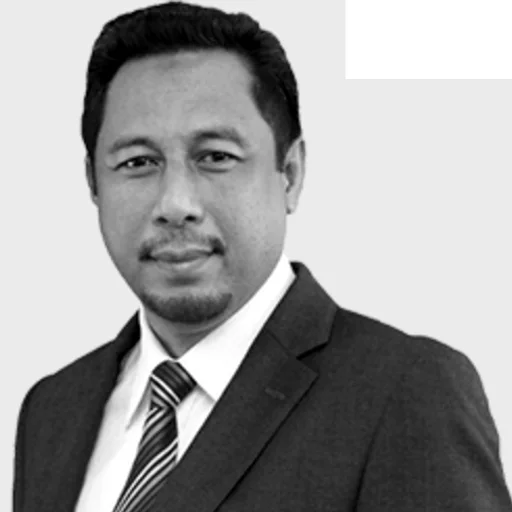
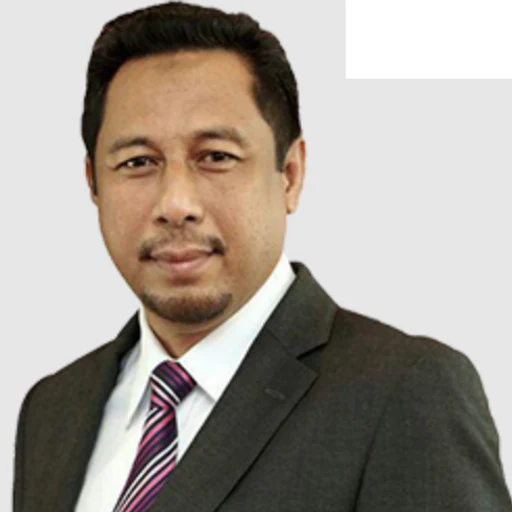
Kesinambungan Amanah: colour portraits, drop kicker + editorial labels
Final refinement of the epilogue section (then frozen):

- Portraits restored to their official colour (re-baked without grayscale;
  same uniform crop/framing/size; Sahar watermark still erased). The three
  read consistently, so no colour balancing was applied.
- Removed the "Epilog" kicker above the title — the heading stands alone.
- Removed the editorial era labels (Membina Asas / Memperkukuh Institusi /
  Meneruskan Amanah) and the per-chairman description line. Each entry now
  shows only position, full name, and service period ("Kini" status kept).
- Section title, introduction, timeline and closing reflection unchanged.

Verified: build compiles; page 200. DOM — no Epilog kicker (heading is the
section's first element), portrait filter none (colour), entries limited to
role/name/term, no description, no overflow.

Changed region(s): [[0.1562, 0.0938, 0.625, 0.7812], [0.2188, 0.75, 0.3438, 1.0]]

diff --git a/resources/js/Pages/Korporat/Founder.vue b/resources/js/Pages/Korporat/Founder.vue
@@ -186,8 +186,7 @@ const bookCta = props.founder.book.cta_verified_url || route('hubungi');
              editorial themes (not historical achievements). Ends quietly, no CTA. -->
         <section class="bg-white py-20 lg:py-28">
             <div class="mx-auto max-w-5xl px-6 lg:px-8">
-                <p class="text-sm font-semibold uppercase tracking-[0.16em] text-emerald-700">Epilog</p>
-                <h2 class="mt-3 text-2xl font-bold text-slate-900 sm:text-3xl">Kesinambungan Amanah</h2>
+                <h2 class="text-2xl font-bold text-slate-900 sm:text-3xl">Kesinambungan Amanah</h2>
                 <p class="mt-6 max-w-3xl leading-relaxed text-slate-700">{{ founder.leadership_legacy.intro }}</p>
 
                 <!-- Garis masa kepimpinan: setiap pengerusi ialah pertanda kesinambungan institusi. -->
@@ -214,7 +213,7 @@ const bookCta = props.founder.book.cta_verified_url || route('hubungi');
                                 height="96"
                                 loading="lazy"
                                 decoding="async"
-                                class="h-24 w-24 rounded-full object-cover object-center grayscale ring-1 ring-slate-900/5"
+                                class="h-24 w-24 rounded-full object-cover object-center ring-1 ring-slate-900/5"
                             />
                             <div
                                 v-else
@@ -234,10 +233,8 @@ const bookCta = props.founder.book.cta_verified_url || route('hubungi');
                                     <span class="h-1.5 w-1.5 rounded-full bg-emerald-500"></span> Kini
                                 </span>
                             </div>
-                            <p v-if="c.era" class="mt-1.5 text-xs font-medium tracking-wide text-slate-400">{{ c.era }}</p>
-                            <h3 class="mt-1 text-lg font-bold text-slate-900 sm:text-xl">{{ c.name }}</h3>
+                            <h3 class="mt-2 text-lg font-bold text-slate-900 sm:text-xl">{{ c.name }}</h3>
                             <p class="mt-1 text-sm font-medium text-slate-500">{{ c.term }}</p>
-                            <p class="mt-3 max-w-2xl leading-relaxed text-slate-700">{{ c.description }}</p>
                         </div>
                     </li>
                 </ol>

diff --git a/resources/data/founder.php b/resources/data/founder.php
@@ -85,17 +85,16 @@ return [
         'Perbincangan dan penyelidikan berterusan mengenai pengurusan korporat Islam',
     ],
 
-    // Kesinambungan Amanah (epilog) — hanya maklumat disahkan. Jangan tokok
-    // tambah pencapaian yang tidak dinyatakan. 'era' ialah tema editorial, bukan
-    // pencapaian sejarah. Potret rasmi grayscale (rangka & saiz seragam); jika
-    // 'portrait' null, UI berpatah semula kepada monogram.
+    // Kesinambungan Amanah — hanya maklumat disahkan (jawatan, nama penuh,
+    // tempoh perkhidmatan). Jangan tokok tambah pencapaian atau label editorial.
+    // Potret rasmi berwarna (rangka & saiz seragam); jika 'portrait' null, UI
+    // berpatah semula kepada monogram.
     'leadership_legacy' => [
         'intro' => 'Sebuah institusi yang kukuh tidak bergantung kepada seorang individu. Amanah yang diasaskan oleh Allahyarham Tan Sri Muhammad Ali Hashim diteruskan oleh barisan kepimpinan AWQAF bagi memastikan falsafah Waqaf Korporat terus berkembang demi manfaat ummah.',
         'closing' => 'Legasi sebenar bukan sekadar institusi yang ditinggalkan, tetapi nilai, amanah dan pemikiran yang terus dipelihara serta diteruskan oleh generasi kepimpinan seterusnya.',
         'chairmen' => [
             [
                 'role' => 'Pengerusi Pengasas',
-                'era' => 'Membina Asas',
                 'name' => 'Allahyarham Tan Sri Muhammad Ali Hashim',
                 'term' => 'September 2012 – Julai 2017',
                 'monogram' => 'MAH',
@@ -105,7 +104,6 @@ return [
             ],
             [
                 'role' => 'Pengerusi Kedua',
-                'era' => 'Memperkukuh Institusi',
                 'name' => 'Tan Sri Siti Sa\'diah binti Sheikh Bakir',
                 'term' => 'Ogos 2017 – Disember 2024',
                 'monogram' => 'SSB',
@@ -115,7 +113,6 @@ return [
             ],
             [
                 'role' => 'Pengerusi Semasa',
-                'era' => 'Meneruskan Amanah',
                 'name' => 'Dato\' Mohammad Sahar bin Mat Din',
                 'term' => 'Januari 2025 – Kini',
                 'monogram' => 'MSD',
